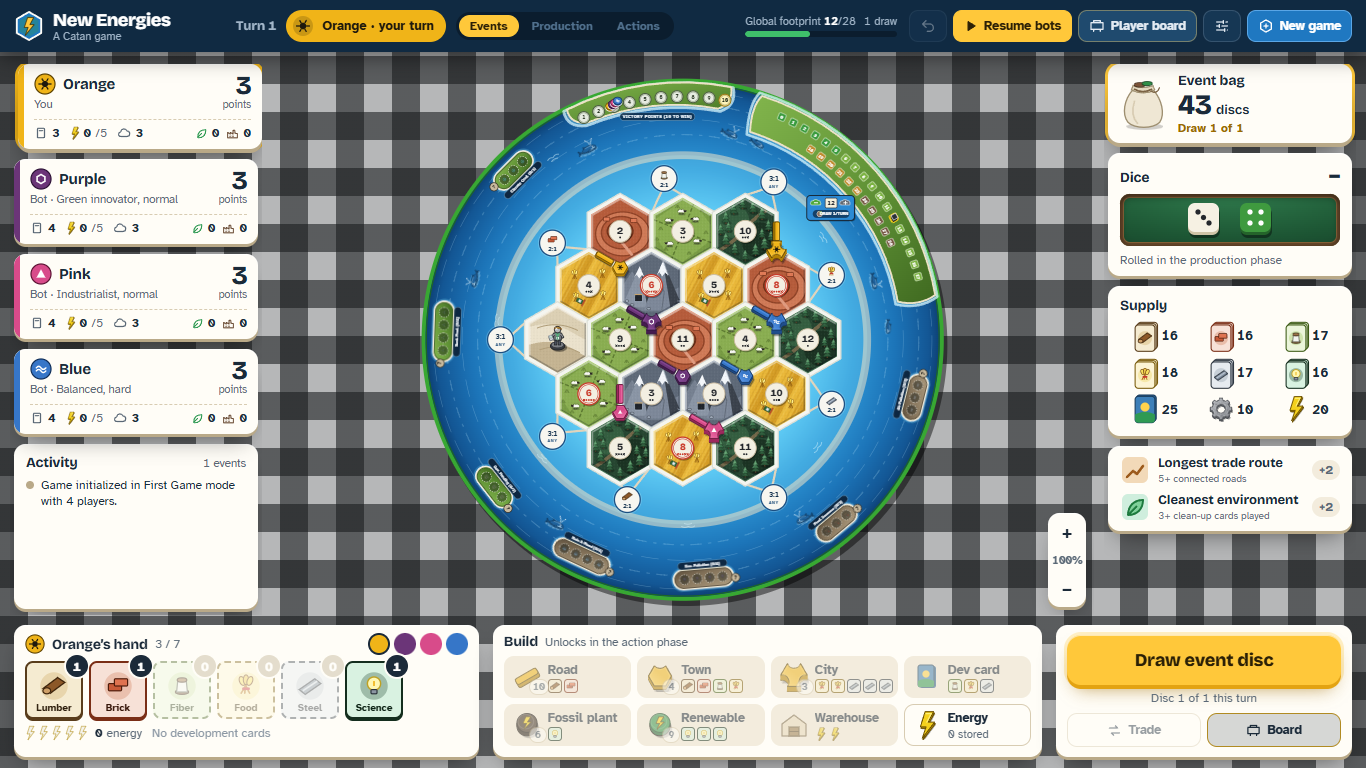
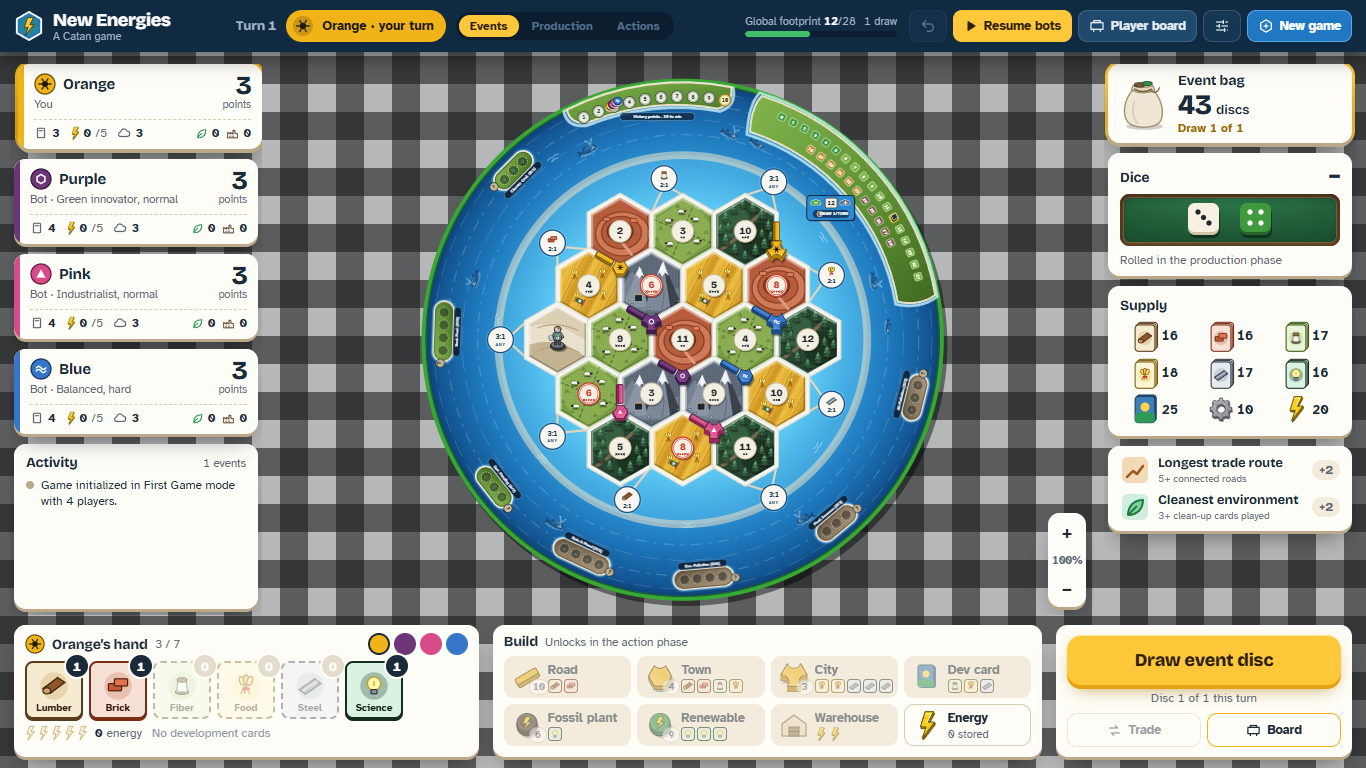
fix(ui): rank bag-end standings by clean-energy balance; sentence-case labels
When the event bag ends the game, the victory screen now ranks winners
first and then by renewable-over-fossil balance, showing the balance as
the headline number (VP moves to the detail line), so the standings
match the rule that decided the game. VP track and warehouse labels are
no longer all caps.

Changed region(s): [[0.8609, 0.9062, 0.9839, 1.0], [0.7994, 0.8125, 0.9839, 0.8438]]

diff --git a/src/ui/Modals.tsx b/src/ui/Modals.tsx
@@ -1787,10 +1787,22 @@ export function VictoryModal({
   }
 
   const band = winners.length === 1 ? PLAYER_THEMES[winners[0]!] : null;
-  const standings = [...state.playerOrder].sort(
-    (a, b) => emptyBagEval.details.scores[b]!.totalVp - emptyBagEval.details.scores[a]!.totalVp
-  );
-  const topVp = Math.max(10, ...standings.map((pid) => emptyBagEval.details.scores[pid]!.totalVp));
+  const scores = emptyBagEval.details.scores;
+  // When the bag runs out the game is decided by renewable-over-fossil balance, not points
+  const decidedByBalance =
+    isCollapse || (isEmptyBagEnd && !winners.some((pid) => scores[pid]!.totalVp >= 10));
+  const rankKey = (pid: PlayerId): number[] => [
+    winners.includes(pid) ? 1 : 0,
+    ...(decidedByBalance ? [scores[pid]!.netRenewable, scores[pid]!.totalVp] : [scores[pid]!.totalVp]),
+  ];
+  const standings = [...state.playerOrder].sort((a, b) => {
+    const ka = rankKey(a);
+    const kb = rankKey(b);
+    for (let i = 0; i < ka.length; i++) if (ka[i] !== kb[i]) return kb[i]! - ka[i]!;
+    return 0;
+  });
+  const topVp = Math.max(10, ...standings.map((pid) => scores[pid]!.totalVp));
+  const topNet = Math.max(1, ...standings.map((pid) => Math.abs(scores[pid]!.netRenewable)));
 
   return (
     <div style={MODAL_BACKDROP_STYLE} data-testid="victory-modal">
@@ -1882,19 +1894,25 @@ export function VictoryModal({
                       {p.name}
                     </span>
                   </span>
-                  <span role="cell" title={`${sc.totalVp} victory points`}>
+                  <span role="cell" title={`${sc.totalVp} victory points, ${sc.netRenewable} clean-energy balance`}>
                     <span style={{ display: 'block', height: '6px', borderRadius: '999px', background: 'var(--ink-950)', overflow: 'hidden' }}>
                       <span
                         style={{
                           display: 'block',
                           height: '100%',
-                          width: `${Math.min(100, (sc.totalVp / topVp) * 100)}%`,
+                          width: `${Math.min(
+                            100,
+                            decidedByBalance
+                              ? (Math.max(0, sc.netRenewable) / topNet) * 100
+                              : (sc.totalVp / topVp) * 100
+                          )}%`,
                           background: pTheme.fill,
                           borderRadius: '999px',
                         }}
                       />
                     </span>
                     <span style={{ display: 'block', fontSize: '11.5px', color: 'var(--ink-300)', marginTop: '3px' }}>
+                      {decidedByBalance ? `${sc.totalVp} VP · ` : ''}
                       {sc.renewableBuilt} renewable · {sc.fossilBuilt} fossil · footprint {sc.localFootprint}
                     </span>
                   </span>
@@ -1902,8 +1920,10 @@ export function VictoryModal({
                     role="cell"
                     style={{ fontFamily: 'var(--font-display)', fontWeight: 800, fontSize: '22px', color: '#ffffff', textAlign: 'right' }}
                   >
-                    {sc.totalVp}
-                    <span style={{ fontSize: '11px', fontWeight: 600, color: 'var(--ink-300)', marginLeft: '3px' }}>VP</span>
+                    {decidedByBalance ? `${sc.netRenewable > 0 ? '+' : ''}${sc.netRenewable}` : sc.totalVp}
+                    <span style={{ fontSize: '11px', fontWeight: 600, color: 'var(--ink-300)', marginLeft: '3px' }}>
+                      {decidedByBalance ? 'balance' : 'VP'}
+                    </span>
                   </span>
                 </div>
               );

diff --git a/src/ui/PlayerMat.tsx b/src/ui/PlayerMat.tsx
@@ -667,10 +667,10 @@ export function PlayerMat({
                   {/* Active Warehouse: <= 10 Hand Limit Badge */}
                   <rect x={12} y={24} width={80} height={38} rx={4} fill="#2e8540" />
                   <text x={52} y={42} textAnchor="middle" fontSize="14" fontWeight="900" fill="#ffffff">
-                    &le; 10 CARDS
+                    &le; 10 cards
                   </text>
                   <text x={52} y={55} textAnchor="middle" fontSize="8.5" fontWeight="700" fill="#d9f2e1">
-                    WAREHOUSE ACTIVE
+                    Warehouse built
                   </text>
                 </>
               )}

diff --git a/src/ui/SeaFrameSvg.tsx b/src/ui/SeaFrameSvg.tsx
@@ -444,10 +444,9 @@ export function SeaFrameSvg({
             textAnchor="middle"
             fontSize="7.2"
             fontWeight="800"
-            letterSpacing="0.7"
             fill="#f0f8ff"
           >
-            VICTORY POINTS (10 TO WIN)
+            Victory points · 10 to win
           </text>
         </g>
 
